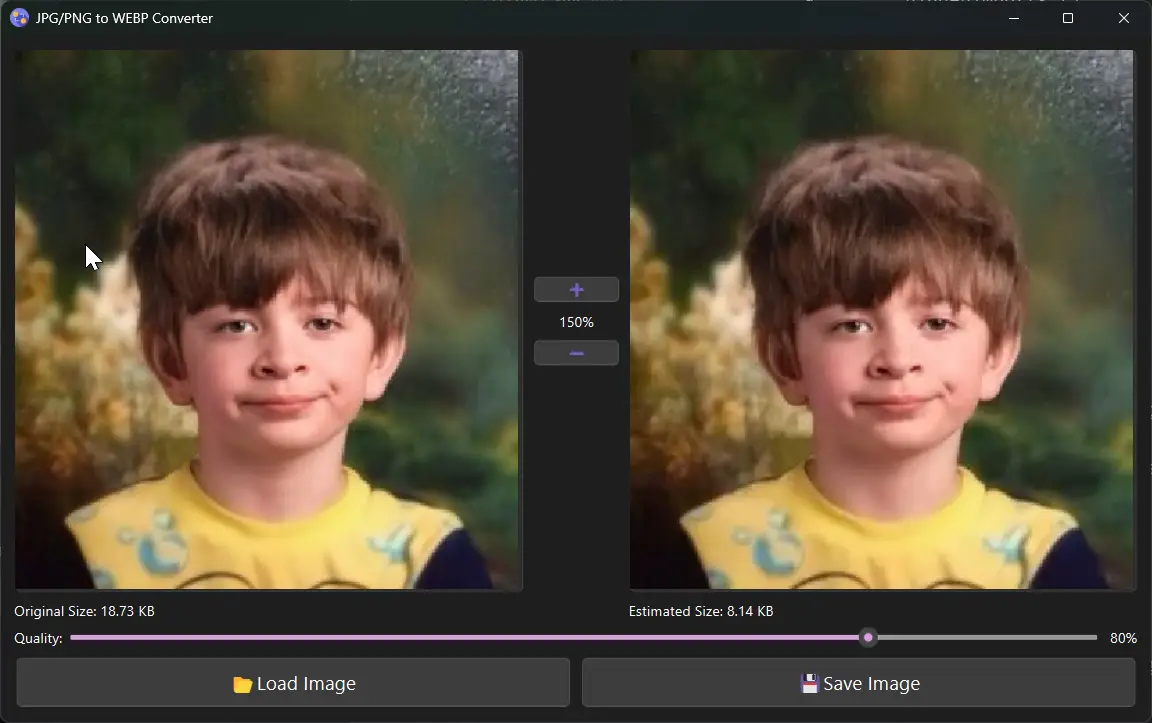
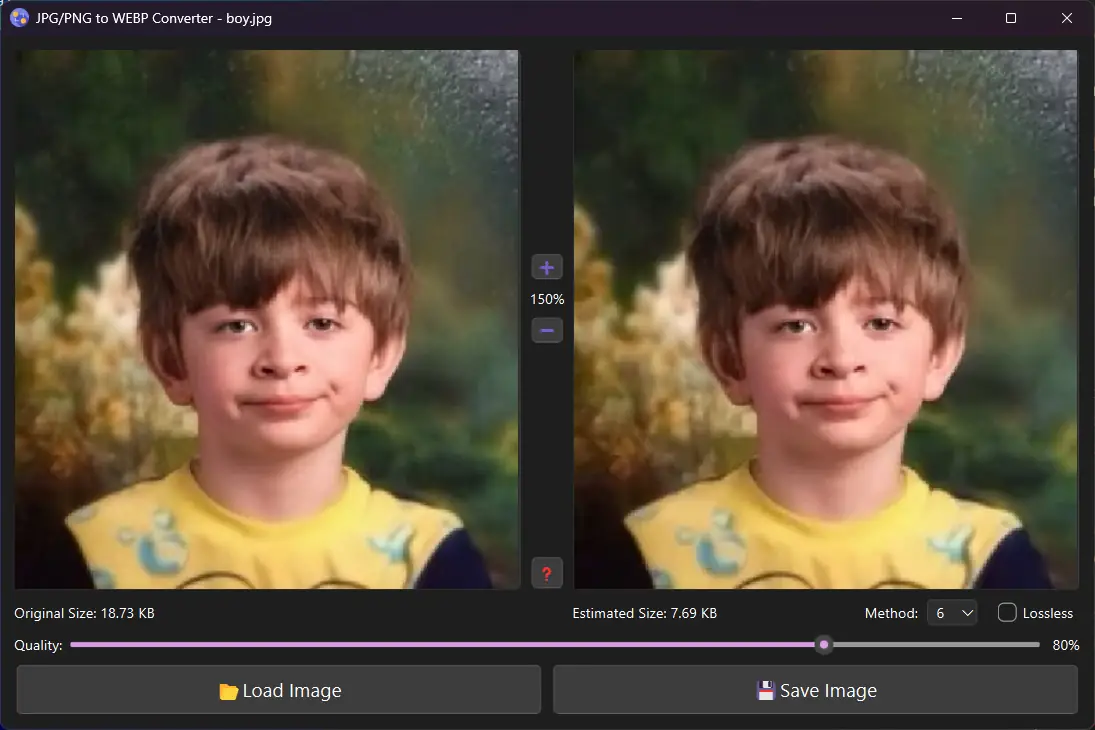
add about window, update UI, add advanced options: Method and Lossless

diff --git a/image_converter2webp.py b/image_converter2webp.py
@@ -1,10 +1,11 @@
 import sys
 import os
 from PyQt6.QtWidgets import (
-    QApplication, QWidget, QLabel, QPushButton, QVBoxLayout, QFileDialog, QSlider, QHBoxLayout, QGridLayout, QMessageBox
+    QApplication, QWidget, QLabel, QPushButton, QVBoxLayout, QFileDialog, QSlider, QHBoxLayout, QGridLayout,
+    QMessageBox, QCheckBox, QComboBox, QDialogButtonBox, QTextBrowser, QDialog
 )
-from PyQt6.QtGui import QPixmap, QMouseEvent
-from PyQt6.QtCore import Qt, QPoint
+from PyQt6.QtGui import QPixmap, QMouseEvent, QPalette, QColor
+from PyQt6.QtCore import Qt, QPoint, QSettings
 from PIL import Image
 from PyQt6.QtWidgets import QScrollArea
 from PyQt6.QtGui import QIcon, QFont
@@ -12,20 +13,18 @@ from PyQt6.QtGui import QIcon, QFont
 SCALE_FACTORS = [10, 20, 30, 40, 50, 60, 70, 80, 90, 100, 150, 200, 250, 300, 350, 400, 450, 500, 550, 600]
 
 APP_CAPTION = "JPG/PNG to WEBP Converter"
-FILE_NAME = ''
-
-
 
 
 def resource_path(relative_path):
     """ Get absolute path to resource, works for dev and for PyInstaller """
     try:
-        # PyInstaller creates a temp folder and stores path in _MEIPASS
+        # PyInstaller creates a temp folder and stores path in_MEIPASS
         base_path = sys._MEIPASS
     except Exception:
         base_path = os.path.abspath(".")
 
     return os.path.join(base_path, relative_path)
+
 
 class DraggableLabel(QLabel):
     def __init__(self, scroll_area, sync_scroll_area):
@@ -74,16 +73,18 @@ class ImageConverter(QWidget):
         self.image_path = None
         self.scale_index = SCALE_FACTORS.index(100)
 
+
     def initUI(self):
         self.setWindowTitle(APP_CAPTION)
         self.setGeometry(100, 100, 900, 600)
+        self.setMinimumWidth(800)
         self.center_on_screen()
 
         layout = QVBoxLayout()
 
         # Create a larger font
         button_font = QFont()
-        button_font.setPointSize(12)  # Increase this number for bigger text
+        button_font.setPointSize(12)
 
         self.load_button = QPushButton("📂Load Image")
         self.load_button.setFont(button_font)
@@ -101,41 +102,77 @@ class ImageConverter(QWidget):
         self.original_label = DraggableLabel(self.original_scroll, self.converted_scroll)
         self.original_scroll.setWidget(self.original_label)
         self.original_scroll.setWidgetResizable(True)
-        self.image_layout.addWidget(self.original_scroll, 0, 0)
+        self.image_layout.addWidget(self.original_scroll, 1, 0)  # Row 1
 
         self.converted_label = DraggableLabel(self.converted_scroll, self.original_scroll)
         self.converted_scroll.setWidget(self.converted_label)
         self.converted_scroll.setWidgetResizable(True)
-        self.image_layout.addWidget(self.converted_scroll, 0, 2)
+        self.image_layout.addWidget(self.converted_scroll, 1, 2)  # Row 1
 
         self.zoom_layout = QVBoxLayout()
+        self.zoom_layout.setAlignment(Qt.AlignmentFlag.AlignCenter)
         self.zoom_in_button = QPushButton("➕")
         self.zoom_out_button = QPushButton("➖")
         self.zoom_label = QLabel("100%")
         self.zoom_label.setAlignment(Qt.AlignmentFlag.AlignCenter)
+        self.help_button = QPushButton("❓")
 
-        # Add spacer at the top of zoom layout to push controls to middle
+        self.zoom_in_button.setFixedWidth(30)
+        self.zoom_out_button.setFixedWidth(30)
+        self.zoom_label.setFixedWidth(30)
+        self.help_button.setFixedWidth(30)
+        self.help_button.setFixedHeight(30)
+
         self.zoom_layout.addStretch()
-
-        # Add zoom controls grouped together
-        self.zoom_layout.addWidget(self.zoom_in_button)
+        self.zoom_layout.addWidget(self.zoom_in_button, 0, Qt.AlignmentFlag.AlignHCenter)
         self.zoom_layout.addWidget(self.zoom_label)
-        self.zoom_layout.addWidget(self.zoom_out_button)
-
-        # Add spacer at the bottom of zoom layout to center the controls
+        self.zoom_layout.addWidget(self.zoom_out_button, 0, Qt.AlignmentFlag.AlignHCenter)
         self.zoom_layout.addStretch()
+        self.zoom_layout.addWidget(self.help_button, 0, Qt.AlignmentFlag.AlignHCenter)
 
-        self.image_layout.addLayout(self.zoom_layout, 0, 1)
+        self.image_layout.addLayout(self.zoom_layout, 1, 1)  # Row 1
 
         self.zoom_in_button.clicked.connect(self.zoom_in)
         self.zoom_out_button.clicked.connect(self.zoom_out)
+        self.help_button.clicked.connect(self.show_help)
 
-        layout.addLayout(self.image_layout)
+        # Add original size label
         self.original_size_label = QLabel("Original Size: -")
-        self.converted_size_label = QLabel("Converted Size: -")
-        self.image_layout.addWidget(self.original_size_label, 1, 0)
-        self.image_layout.addWidget(self.converted_size_label, 1, 2)
+        self.image_layout.addWidget(self.original_size_label, 2, 0)
 
+        # Add converted size label
+        self.converted_size_label = QLabel("Converted Size: -")
+        self.image_layout.addWidget(self.converted_size_label, 2, 2)
+
+        # === Create a horizontal layout for Method and Lossless widgets (aligned right) ===
+        options_layout = QHBoxLayout()
+        options_layout.addStretch()  # Push widgets to the right
+
+        # Method dropdown
+        options_layout.addWidget(QLabel("Method:"))
+        self.method_combo = QComboBox()
+        for i in range(7):  # 0 through 6
+            self.method_combo.addItem(str(i))
+        self.method_combo.setCurrentIndex(6)
+        self.method_combo.currentIndexChanged.connect(self.update_preview)
+        options_layout.addWidget(self.method_combo)
+
+        # Add spacing
+        options_layout.addSpacing(10)
+
+        # Lossless checkbox
+        self.lossless_checkbox = QCheckBox("Lossless")
+        self.lossless_checkbox.setChecked(False)
+        self.lossless_checkbox.stateChanged.connect(self.update_preview)
+        options_layout.addWidget(self.lossless_checkbox)
+
+        # Add the options layout BELOW the converted image, aligned right (row 2, column 2)
+        self.image_layout.addLayout(options_layout, 2, 2)
+
+        # Add the image layout to the main layout
+        layout.addLayout(self.image_layout)
+
+        # Create and add slider layout
         slider_layout = QHBoxLayout()
         self.quality_slider = QSlider(Qt.Orientation.Horizontal)
         self.quality_slider.setMinimum(10)
@@ -159,6 +196,81 @@ class ImageConverter(QWidget):
 
         self.setLayout(layout)
 
+    def show_help(self):
+        help_dialog = QDialog(self)
+        help_dialog.setWindowTitle("Help")
+        help_dialog.setMinimumWidth(500)
+        help_dialog.setMinimumHeight(400)
+
+        layout = QVBoxLayout()
+
+        help_text = QTextBrowser()
+        help_text.setOpenExternalLinks(True)
+        help_text.setHtml("""
+        <h2>Image Converter Help</h2>
+        <p>This application allows you to convert JPG, JPEG, and PNG images to WEBP format with quality control.</p>
+
+        <h3>Basic Controls</h3>
+        <ul>
+            <li><strong>📂Load Image</strong> - Open an image file from your computer</li>
+            <li><strong>💾Save Image</strong> - Save the converted image to your computer</li>
+            <li><strong>➕/➖</strong> - Zoom in and out of the images</li>
+            <li><strong>Quality Slider</strong> - Adjust the compression quality (higher values = better quality but larger file size)</li>
+        </ul>
+
+        <h3>Advanced Options</h3>
+        <ul>
+            <li><strong>Method</strong> - Select the conversion algorithm (0-6). Higher values provide better quality and smaller file size but take longer to process.</li>
+            <li><strong>Lossless</strong> - Enable for lossless compression (no quality loss, but larger file size)</li>
+        </ul>
+
+        <h3>Image Navigation</h3>
+        <p>You can drag the images to pan around, and use the zoom controls to get a closer look at details.</p>
+
+        <hr>
+        <h3>About</h3>
+        <p><strong>Image Converter v1.01</strong></p>
+        <p>Developed by Vitaliy Osidach &copy; 2025</p>
+        <p>GitHub Repository: <a href="https://github.com/ozinka/image_converter2webp">ozinka/image_converter2webp</a></p>
+        <p>Built with:</p>
+        <ul>
+            <li>Python 3.13</li>
+            <li>PyQt6</li>
+            <li>Pillow (Python Imaging Library)</li>
+            <li>Development assistance: ChatGPT, Claude</li>
+        </ul>
+
+        <h4>License</h4>
+        <p>MIT License</p>
+        <p>Copyright (c) 2025 Vitaliy Osidach</p>
+        <p>Permission is hereby granted, free of charge, to any person obtaining a copy
+        of this software and associated documentation files (the "Software"), to deal
+        in the Software without restriction, including without limitation the rights
+        to use, copy, modify, merge, publish, distribute, sublicense, and/or sell
+        copies of the Software, and to permit persons to whom the Software is
+        furnished to do so, subject to the following conditions:</p>
+
+        <p>The above copyright notice and this permission notice shall be included in all
+        copies or substantial portions of the Software.</p>
+
+        <p>THE SOFTWARE IS PROVIDED "AS IS", WITHOUT WARRANTY OF ANY KIND, EXPRESS OR
+        IMPLIED, INCLUDING BUT NOT LIMITED TO THE WARRANTIES OF MERCHANTABILITY,
+        FITNESS FOR A PARTICULAR PURPOSE AND NONINFRINGEMENT. IN NO EVENT SHALL THE
+        AUTHORS OR COPYRIGHT HOLDERS BE LIABLE FOR ANY CLAIM, DAMAGES OR OTHER
+        LIABILITY, WHETHER IN AN ACTION OF CONTRACT, TORT OR OTHERWISE, ARISING FROM,
+        OUT OF OR IN CONNECTION WITH THE SOFTWARE OR THE USE OR OTHER DEALINGS IN THE
+        SOFTWARE.</p>
+        """)
+
+        layout.addWidget(help_text)
+
+        button_box = QDialogButtonBox(QDialogButtonBox.StandardButton.Ok)
+        button_box.accepted.connect(help_dialog.accept)
+        layout.addWidget(button_box)
+
+        help_dialog.setLayout(layout)
+        help_dialog.exec()
+
     def center_on_screen(self):
         """Centers the window on the screen."""
         # Get the screen geometry
@@ -172,12 +284,12 @@ class ImageConverter(QWidget):
         self.move(x, y)
 
     def zoom_in(self):
-        if self.scale_index < len(SCALE_FACTORS) - 1:
+        if self.scale_index < len(SCALE_FACTORS) - 1 and self.image_path:
             self.scale_index += 1
             self.update_zoom()
 
     def zoom_out(self):
-        if self.scale_index > 0:
+        if self.scale_index > 0 and self.image_path:
             self.scale_index -= 1
             self.update_zoom()
 
@@ -188,7 +300,7 @@ class ImageConverter(QWidget):
             scaled_pixmap = pixmap.scaled(pixmap.width() * scale_factor // 100,
                                           pixmap.height() * scale_factor // 100,
                                           Qt.AspectRatioMode.KeepAspectRatio)
-                                          # Qt.TransformationMode.SmoothTransformation)
+            # Qt.TransformationMode.SmoothTransformation)
             self.original_label.setPixmap(scaled_pixmap)
             self.original_label.adjustSize()
             # self.converted_label.setPixmap(scaled_pixmap)
@@ -203,29 +315,44 @@ class ImageConverter(QWidget):
     def load_image(self):
         file_path, _ = QFileDialog.getOpenFileName(self, "Open Image", "", "Images (*.png *.jpg *.jpeg)")
         if file_path:
-            global FILE_NAME
-            FILE_NAME = file_path
             self.image_path = file_path
             self.update_zoom()
             file_size = os.path.getsize(file_path) / 1024  # KB
             self.original_size_label.setText(f'Original Size: {file_size:.2f} KB')
-            self.setWindowTitle("JPG/PNG to WEBP Converter - " + os.path.basename(FILE_NAME))
+            self.setWindowTitle("JPG/PNG to WEBP Converter - " + os.path.basename(self.image_path))
 
     def save_image(self):
-        file_name =  os.path.splitext(FILE_NAME)[0]
-        print(file_name)
+        file_name = os.path.splitext(self.image_path)[0]
         if self.image_path:
             save_path, _ = QFileDialog.getSaveFileName(self, 'Save Image', file_name, 'WEBP Files (*.webp)')
             if save_path:
                 img = Image.open(self.image_path)
-                img.save(save_path, 'WEBP', quality=self.quality_slider.value())
-                print(f'Saved to: {save_path}')
+
+                quality = self.quality_slider.value()
+                method = int(self.method_combo.currentText())
+                lossless = self.lossless_checkbox.isChecked()
+
+                img.save(save_path, "WEBP",
+                         quality=quality,
+                         lossless=lossless,
+                         method=method,
+                         icc_profile=None)
 
     def convert_image(self):
         if self.image_path:
             img = Image.open(self.image_path)
             webp_path = "converted.webp"
-            img.save(webp_path, "WEBP", quality=self.quality_slider.value())
+
+            quality = self.quality_slider.value()
+            method = int(self.method_combo.currentText())
+            lossless = self.lossless_checkbox.isChecked()
+
+            img.save(webp_path, "WEBP",
+                     quality=quality,
+                     lossless=lossless,
+                     method=method,
+                     icc_profile=None)
+
             pixmap = QPixmap(webp_path)
             scale_factor = SCALE_FACTORS[self.scale_index]
             scaled_pixmap = pixmap.scaled(pixmap.width() * scale_factor // 100,
@@ -243,7 +370,6 @@ class ImageConverter(QWidget):
 if __name__ == "__main__":
     app = QApplication(sys.argv)
     icon_path = resource_path('media/favicon.ico')
-    # app_icon = QIcon("media\\favicon.ico")  # Assumes the file is in the same directory as your script
     app.setWindowIcon(QIcon(icon_path))
     converter = ImageConverter()
     converter.show()
